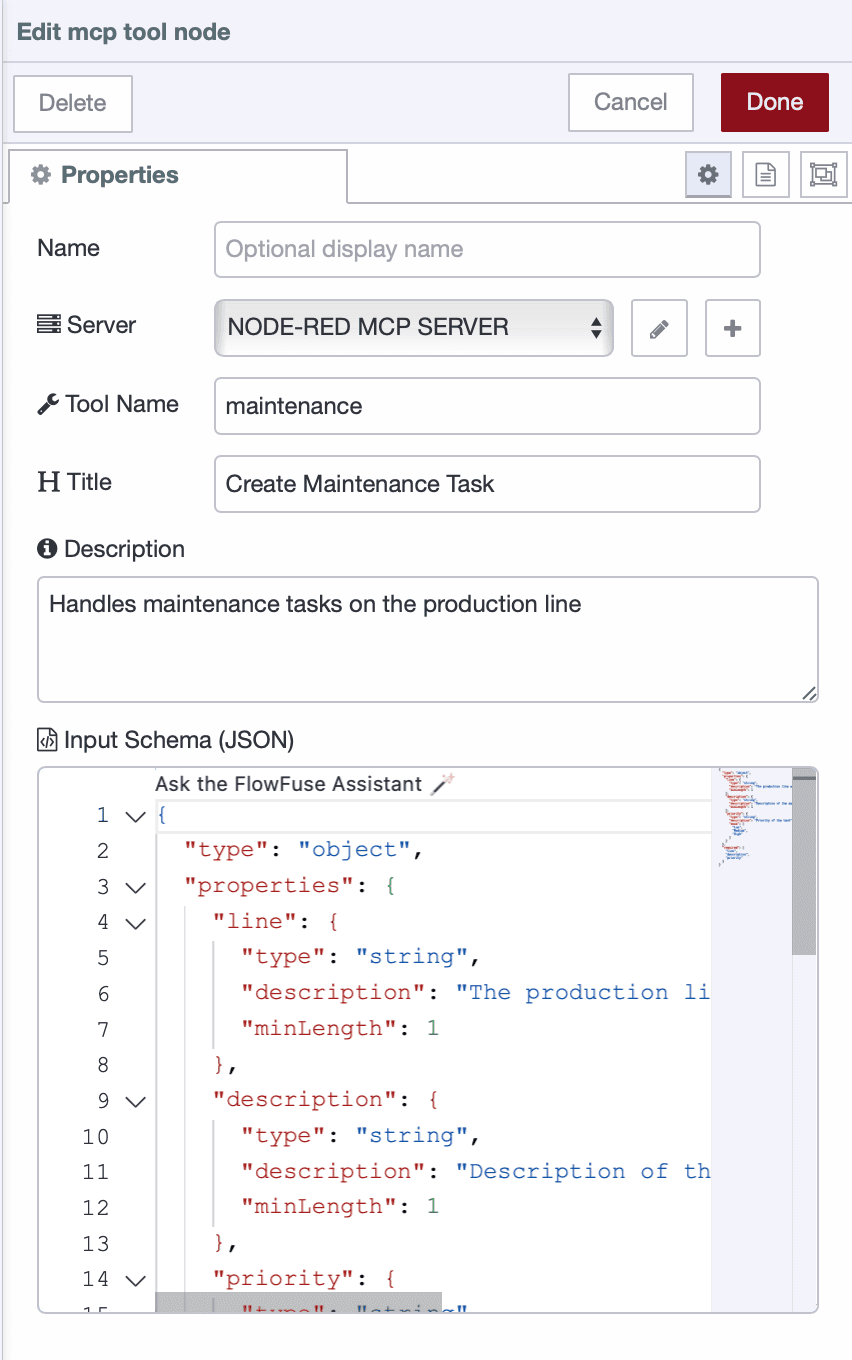
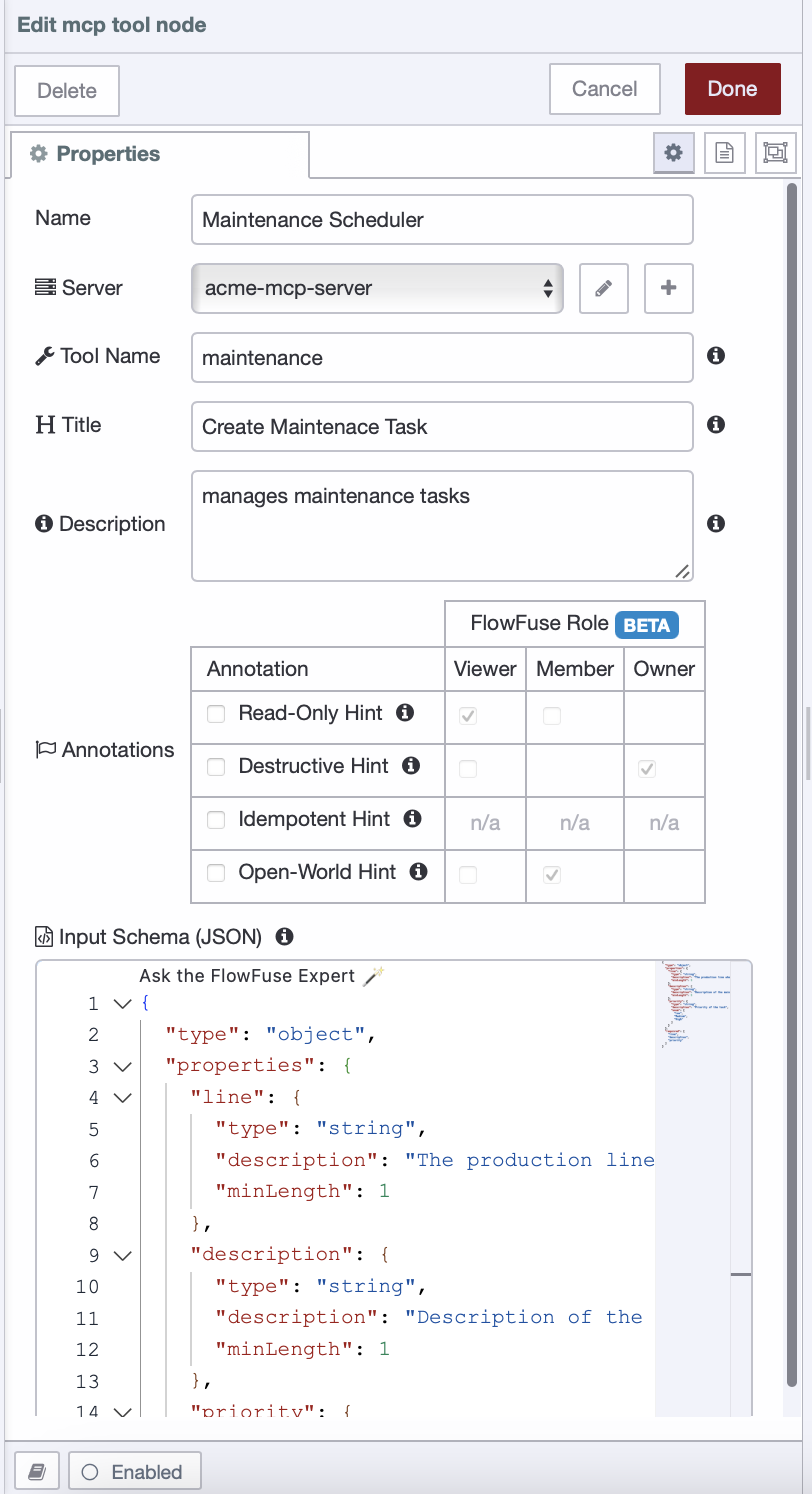
Update Blog and Documentation to reflect latest changes to FlowFuse Expert and MCP nodes

diff --git a/src/blog/2025/10/building-mcp-server-using-flowfuse.md b/src/blog/2025/10/building-mcp-server-using-flowfuse.md
@@ -53,7 +53,7 @@ Before defining resources or tools, the MCP Server must be configured. This serv
 
 2. Define the server properties:
 
-   * **Name**: Enter a descriptive name, e.g., `Factory MCP Server`.
+   * **Name**: Enter a descriptive name, e.g., `Node-RED MCP Server`.
    * **Protocol**: Leave the default `http/sse` (currently the only option).
    * **Path**: Specify the endpoint path for the server, e.g., `/mcp`.
 
@@ -62,7 +62,63 @@ Before defining resources or tools, the MCP Server must be configured. This serv
 
 3. **Click Done** to save the server configuration.
 
-Once configured, this server is available for all subsequent Resources and Tools, providing a unified and discoverable endpoint for AI agents.
+Once the server is configured, clients can connect using a URL. The URL to connect with is your instance URL plus the MCP path you configured, for example:
+
+```
+https://your-instance.flowfuse.cloud/mcp
+```
+
+or if you are running Node-RED instance locally, use the host, port, and MCP path of your instance, for example:
+
+```
+http://localhost:1880/mcp
+```
+
+or
+
+```
+http://192.168.1.100:1880/mcp
+```
+
+This URL allows MCP Tool nodes and AI agents to discover resources, execute tools, and interact with your flows.
+
+### Securing Your MCP Server
+
+To ensure your MCP server is protected from unauthorized access, enable FlowFuse User Authentication.
+
+1. Navigate to your instance **Settings → Security** tab
+2. Select **FlowFuse User Authentication**, click **Save Changes**, and in the popup, click **Restart** to apply the changes.
+
+![FlowFuse User Authentication settings screenshot](./images/ff-auth.png){data-zoomable}
+*FlowFuse User Authentication settings screenshot*
+
+3. Click **Add Token** and provide a descriptive name for identification
+4. Set an expiry date (recommended for enhanced security)
+5. Click **Create** and copy the generated token
+
+When connecting to your MCP server from a client, include the token in the request headers:
+
+```json
+{
+  "node-red-mcp-server": {
+    "url": "http://:1880/mcp",
+    "type": "http",
+    "headers": {
+      "Authorization": "Bearer ffhttp_xxxxxxxxxxxxxxxxxxxxxxxxxxxx"
+    }
+  }
+}
+```
+
+Replace `ffhttp_xxxxxxxxxxxxxxxxxxxxxxxxxxxx` with your actual token. This ensures that only authorized clients can access your MCP server resources and tools.
+
+<div class="blog-update-notes">
+    <p><strong>UPDATE:</strong> <a href="/blog/2025/12/flowfuse-release-2-25/#interact-with-mcp-resources-in-flowfuse-expert">FlowFuse Expert now allows you to connect directly with your MCP Resources and Tools</a>, so you don't need to connect external AI agents anymore.</p>
+    
+    <p>You'll need to select the MCP server you want to connect to in the FlowFuse Expert Insights tab. Once connected, FlowFuse Expert will automatically query your Resources and execute your Tools based on your team role and your instructions. The annotations you configure in the <a href="#defining-an-mcp-tool">MCP Tool node</a> (read-only, destructive, idempotent, open-world) integrate with FlowFuse's role-based access control to ensure secure, appropriate access for every team member.</p>
+    
+    ![FlowFuse Expert interacting with MCP Resources and Tools](./images/mcp-in-flowfuse.png){data-zoomable}
+</div>
 
 ### Defining an MCP Resource
 
@@ -111,58 +167,74 @@ While resources are useful for providing access to data, tools enable an AI agen
 
 3. Enter a tool name that will be visible to clients connecting to the MCP server, such as *Maintenance* or *Maintenance Scheduler*.
 
-4. Provide a clear description of the tool’s purpose, and assign a descriptive name to the node within your flow.
+4. Next, set annotations. Annotations help AI clients understand your tool's behavior and control which FlowFuse team members can access it based on their role (Viewer, Member, or Owner).
 
-5. Define the input schema in JSON format. This schema helps the AI understand what data is required to perform the action and also validates incoming requests. For detailed guidance, refer to the [Getting Started Guide](https://json-schema.org/learn/getting-started-step-by-step).
+   - **Read-Only Hint**: Tool only reads data, doesn't modify anything. Safe for exploratory queries.
+     * **Access**: Viewer role and above
+   
+   - **Destructive Hint**: Tool may delete or irreversibly modify data. Use with caution.
+     * **Access**: Owner role only
+   
+   - **Idempotent Hint**: Calling the tool multiple times with same parameters has the same effect as calling it once. Safe to retry.
+     * **Access**: No effect on roles (only relevant for writing tools, which require Member minimum)
+   
+   - **Open-World Hint**: Tool interacts with external systems or data sources that may change unpredictably.
+     * **Access**: Member role and above
+
+   > **Note:** These are hints only and do not enforce behavior. The actual behavior of a tool is determined by your Node-RED flow implementation. Annotations are used by FlowFuse for role-based access control (RBAC) and FlowFuse Expert. They are also part of the standard MCP specification and can be consumed by external agents, but their effect ultimately depends on the client's implementation.
+
+5. Provide a clear description of the tool's purpose, and assign a descriptive name to the node within your flow.
+
+6. Define the input schema in JSON format. This schema helps the AI understand what data is required to perform the action and also validates incoming requests. For detailed guidance, refer to the [Getting Started Guide](https://json-schema.org/learn/getting-started-step-by-step).
 
    > Tip: You can also use the FlowFuse Expert to generate the JSON schema automatically. Just click **Ask FlowFuse Expert** in the input schema field and describe the expected input in plain English.
 
-Below is an example schema for a Tool node. It shows how data is defined, its type, and which fields are required along with minimum lengths:
+   Below is an example schema for a Tool node. It shows how data is defined, its type, and which fields are required along with minimum lengths:
 
-```json
-{
-  "type": "object",
-  "properties": {
-    "line": {
-      "type": "string",
-      "description": "The production line where maintenance is required",
-      "minLength": 1
-    },
-    "description": {
-      "type": "string",
-      "description": "Description of the maintenance task",
-      "minLength": 1
-    },
-    "priority": {
-      "type": "string",
-      "description": "Priority of the task",
-      "enum": [
-        "Low",
-        "Medium",
-        "High"
-      ]
-    }
-  },
-  "required": [
-    "line",
-    "description",
-    "priority"
-  ]
-}
-```
+   ```json
+   {
+     "type": "object",
+     "properties": {
+       "line": {
+         "type": "string",
+         "description": "The production line where maintenance is required",
+         "minLength": 1
+       },
+       "description": {
+         "type": "string",
+         "description": "Description of the maintenance task",
+         "minLength": 1
+       },
+       "priority": {
+         "type": "string",
+         "description": "Priority of the task",
+         "enum": [
+           "Low",
+           "Medium",
+           "High"
+         ]
+       }
+     },
+     "required": [
+       "line",
+       "description",
+       "priority"
+     ]
+   }
+   ```
 
-![MCP Tool Node Configuration](./images/mcp-tools.png){data-zoomable}
-*Setting up an MCP Tool in FlowFuse*
+   ![MCP Tool Node Configuration](./images/mcp-tools.png){data-zoomable}
+   *Setting up an MCP Tool in FlowFuse*
 
-6. Click *Done*, then deploy your flow.
+7. Click *Done*, then deploy your flow.
 
 At this stage, the tool becomes discoverable by connected AI clients. However, it will not perform any action until it is linked to a flow that executes a task, such as an HTTP Request node performing a POST operation, a Query node inserting data into a database, or an OPC UA Write node controlling a device.
 
-7. Drag the MCP Response node and connect its input to the output of the final node in your action flow. 
+8. Drag the MCP Response node and connect its input to the output of the final node in your action flow. 
 
-> The MCP Response node is necessary because the AI needs to receive the outcome of the action—whether it was successful. Errors are also fed back to the MCP Response node, enabling the AI to handle them appropriately.
+   > The MCP Response node is necessary because the AI needs to receive the outcome of the action—whether it was successful or not. Errors are also fed back to the MCP Response node, enabling the AI to handle them appropriately.
 
-8.  Deploy the flow once again.
+9. Deploy the flow once again.
 
 Your MCP Tool is now active. When an AI agent invokes it, the connected flow executes the defined action and returns the result to the agent.
 

diff --git a/src/node-red/flowfuse/mcp/index.md b/src/node-red/flowfuse/mcp/index.md
@@ -10,11 +10,110 @@ meta:
 
 # {{ meta.title }}
 
-This document lists and explains the **MCP nodes** available in FlowFuse. MCP (Model Context Protocol) nodes extend Node-RED to integrate AI models, tools, and resources through the MCP framework. Each node helps you connect, configure, and manage model interactions directly from Node-RED.
+This document lists and explains the **MCP nodes** available in FlowFuse. MCP (Model Context Protocol) nodes extend Node-RED to integrate AI models, tools, and resources through the Model Context Protocol framework. Each node helps you connect, configure, and manage AI interactions directly from Node-RED.
 
 ## Video introduction
 
 <lite-youtube videoid="troUvaF8V68" params="rel=0" style="width: 100%; height: 480px; margin-top: 20px; margin-bottom: 20px;" title="YouTube video player with FlowFuse introduction video to MCP server nodes"></lite-youtube>
+
+## Getting Started
+
+### Prerequisites
+
+* **A running FlowFuse Enterprise instance.** If you do not have one, [contact us](/contact-us/) to discuss Enterprise options.
+* **Ensure the `@flowfuse-nodes/nr-mcp-server-nodes` package is installed** in your Node-RED palette.
+
+> **Note:** The MCP nodes (@flowfuse-nodes/nr-mcp-server-nodes) are only available on the Enterprise tier.
+
+### Configuring Your MCP Server
+
+Before using MCP nodes, you need to configure an MCP Server:
+
+1. Add any **MCP Resource, Tool, or Prompt** node to your workspace
+2. Click the **+** button next to Server to create a new configuration
+3. Configure the server properties:
+   * **Name**: A descriptive name (e.g., `Node-RED MCP Server`)
+   * **Protocol**: Leave the default `http/sse`
+   * **Path**: Endpoint path for the server (e.g., `/mcp`)
+4. Click **Done** to save
+
+### Connecting External Clients or AI Agents
+
+Once configured, external AI agents and MCP clients can connect to your server using your instance URL plus the MCP path:
+
+**FlowFuse Cloud:**
+```
+https://your-instance.flowfuse.cloud/mcp
+```
+
+**Local Instance:**
+```
+http://localhost:1880/mcp
+```
+
+**Network Instance:**
+```
+http://192.168.1.100:1880/mcp
+```
+
+### Securing Your MCP Server
+
+To protect your MCP server from unauthorized access, enable FlowFuse User Authentication:
+
+1. Navigate to **Settings → Security** in your instance
+2. Select **FlowFuse User Authentication**
+3. Click **Save Changes**, then **Restart** to apply
+4. Click **Add Token** and provide a descriptive name
+5. Set an expiry date (recommended for security)
+6. Click **Create** and copy the generated token
+
+When connecting from external AI agents, include the token in request headers:
+
+```json
+{
+  "node-red-mcp-server": {
+    "url": "http://<host>:<port>/mcp",
+    "type": "http",
+    "headers": {
+      "Authorization": "Bearer ffhttp_xxxxxxxxxxxxxxxxxxxxxxxxxxxx"
+    }
+  }
+}
+```
+
+Replace `ffhttp_xxxxxxxxxxxxxxxxxxxxxxxxxxxx` with your actual token to ensure only authorized clients can access your MCP server resources and tools.
+
+### Using FlowFuse Expert
+
+When you have an MCP server built inside your FlowFuse cloud-hosted Node-RED instance, you can use FlowFuse Expert for a simpler and more secure way to interact with it compared to external clients. FlowFuse Expert connects directly to your MCP server, allowing you to query resources and execute tools with built-in role-based access control.
+
+> **Note:** FlowFuse Expert currently works with cloud-hosted instances. Support for remote Node-RED instances is planned for future releases.
+
+**Getting Started:**
+
+You can access FlowFuse Expert in two ways:
+
+**1. At the Platform Level:**
+
+Open FlowFuse Expert directly from your FlowFuse platform dashboard.
+
+![FlowFuse Expert at Platform Level](../images/ff-expert-at-platform-level.png)
+
+
+![FlowFuse Expert Opened at Platform](../images/ff-expert-opned-platform.png)
+
+**2. Within the Node-RED Editor:**
+
+To access FlowFuse Expert within your Node-RED instance where you have built your MCP server, open the editor using the **Open Editor** button, then access FlowFuse Expert from there.
+
+![FlowFuse Expert in Editor](../images/ff-expert-in-editor.png)
+
+
+![FlowFuse Expert Opened in Editor](../images/ff-expert-opened.png)
+
+Once FlowFuse Expert is open, select your MCP server from the Insights tab, and Expert will automatically discover your resources and tools. You can then ask questions or request actions, and Expert will use your resources and tools based on your role.
+
+FlowFuse Expert enforces access control based on the annotations configured in your MCP Tool nodes. Learn more about configuring tool annotations in the [MCP Tool documentation](./mcp-tool#annotations).
 
 ## Nodes
 
@@ -22,4 +121,4 @@ This section lists the **MCP nodes** available in FlowFuse:
 
 {% include "navigation-items-list.njk" %}
 
-Each listed node provides a unique capability within the MCP ecosystem — from registering tools and resources to managing prompts and responses. Use these nodes to create MCP Servers, provide tools, resources, and prompts to MCP Clients, and standardize model workflows in your Node-RED projects.
+Each listed node provides a unique capability within the MCP ecosystem — from registering tools and resources to managing prompts and responses. Use these nodes to create MCP Servers, provide tools, resources, and prompts to MCP clients, and standardize AI workflows in your Node-RED projects.

diff --git a/src/node-red/flowfuse/mcp/mcp-tool.md b/src/node-red/flowfuse/mcp/mcp-tool.md
@@ -52,6 +52,25 @@ Human-readable name shown to users in MCP clients. This is what users see when b
 
 Detailed description of what this tool does and when to use it. Be specific to help FlowFuse Expert understand when to invoke this tool.
 
+### Annotations
+`checkboxes` - Optional
+
+Annotations help AI clients understand your tool's behavior and control which FlowFuse team members can access it based on their role (Viewer, Member, or Owner).
+
+- **Read-Only Hint**: Tool only reads data, doesn't modify anything. Safe for exploratory queries.
+  * **Access**: Viewer role and above
+  
+- **Destructive Hint**: Tool may delete or irreversibly modify data. Use with caution.
+  * **Access**: Owner role only
+  
+- **Idempotent Hint**: Calling the tool multiple times with same parameters has the same effect as calling it once. Safe to retry.
+  * **Access**: No effect on roles (only relevant for writing tools, which require Member minimum)
+  
+- **Open-World Hint**: Tool interacts with external systems or data sources that may change unpredictably.
+  * **Access**: Member role and above
+
+> **Note:** These are hints only and do not enforce behavior. The actual behavior of a tool is determined by your Node-RED flow implementation. Annotations are used by FlowFuse for role-based access control (RBAC) and FlowFuse Expert. They are also part of the standard MCP specification and can be consumed by external agents, but their effect ultimately depends on the client's implementation.
+
 ### Input Schema
 `JSON` - Required
 
